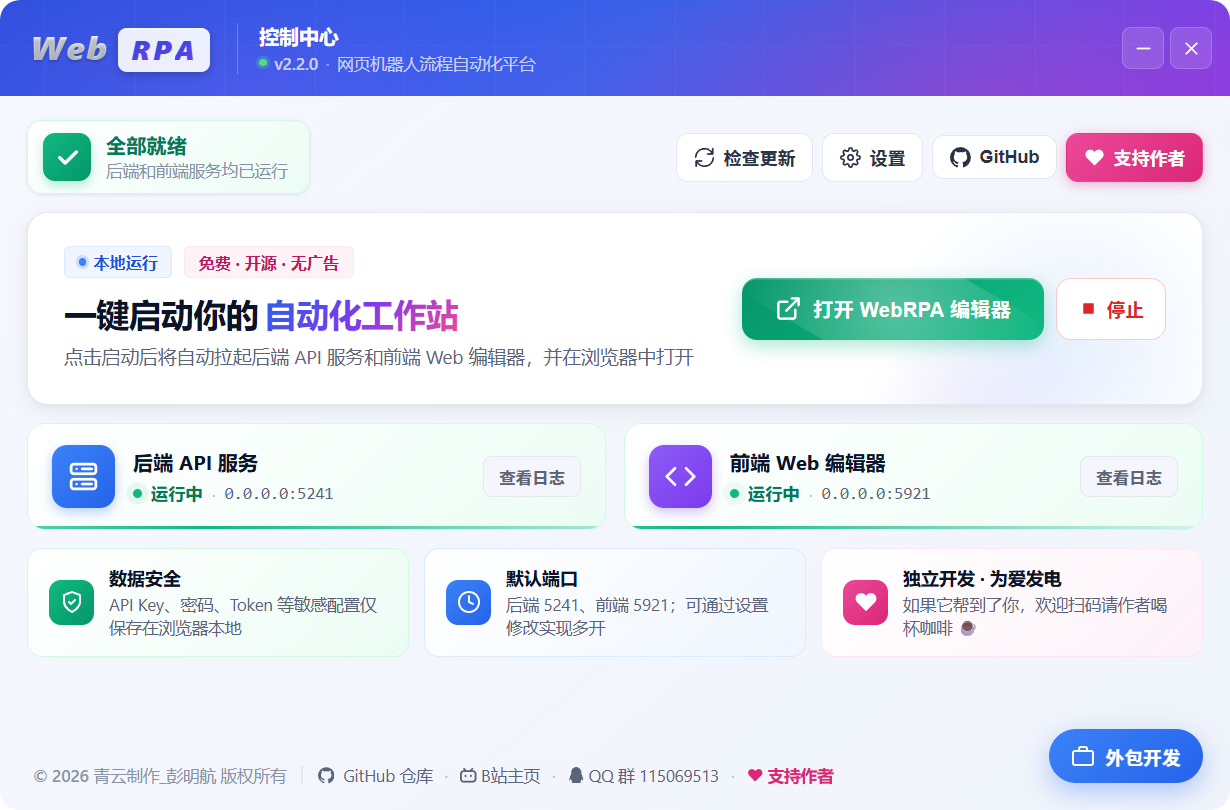
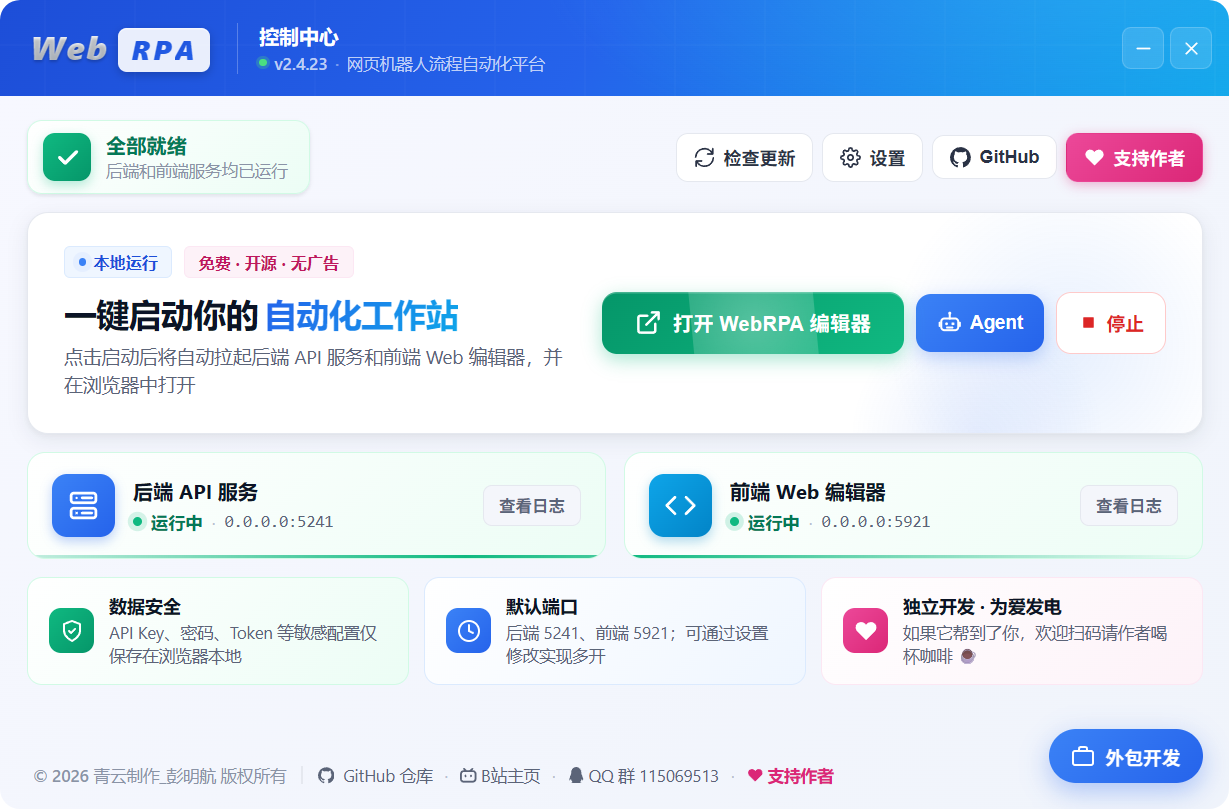
chore(release): 版本号升级至 2.4.23（全量同步+启动器exe重编译）;清理运行产生的数据文件;更新展示图

diff --git a/frameworkHub/src/index.js b/frameworkHub/src/index.js
@@ -101,8 +101,8 @@ app.get('/health', (req, res) => {
 // 获取最新版本号
 app.get('/api/version', (req, res) => {
   res.json({
-    version: '2.4.14',
-    releaseDate: '2026-07-12',
+    version: '2.4.23',
+    releaseDate: '2026-07-15',
     downloadUrl: 'https://github.com/pmh1314520/WebRPA/releases',
     changelog: '2.0.0 大版本：全面强化 AI 能力——新增 AI 小助手（对话式搭建/排查工作流，支持运行失败自动诊断与自愈重跑）、AI 数据处理模块（信息抽取/分类/摘要/翻译/情感/数据规整/语义去重/智能路由）、完整 Excel 自动化模块（基于 openpyxl + COM）；数据表格全量虚拟滚动、日志实时推送等大量体验优化。详见 GitHub Releases。'
   })

diff --git a/frontend/src/services/version.ts b/frontend/src/services/version.ts
@@ -1,5 +1,5 @@
 // 当前编辑器版本号
-export const CURRENT_VERSION = '2.4.14'
+export const CURRENT_VERSION = '2.4.23'
 
 // 默认工作流仓库地址
 const HUB_URL = 'https://hub.pmhs.top'

diff --git a/README.md b/README.md
@@ -5,7 +5,7 @@
 WebRPA - 网页机器人流程自动化工具
 </h1>
 <p align="center">
-  <img src="https://img.shields.io/badge/版本-2.4.14-blue.svg" alt="版本">
+  <img src="https://img.shields.io/badge/版本-2.4.23-blue.svg" alt="版本">
   <img src="https://img.shields.io/badge/模块数量-558个-brightgreen.svg" alt="模块数量">
   <img src="https://img.shields.io/badge/协议-AGPL--3.0%20%2B%20商业授权-green.svg" alt="协议">
   <img src="https://img.shields.io/badge/作者-青云制作__彭明航-orange.svg" alt="作者">
@@ -650,6 +650,9 @@ WebRPA/
 |  80  |          *人           | 2026-07-11 01:36:55 |   6.66   |
 |  81  |          J*a           | 2026-07-11 09:19:06 |  10.00   |
 |  82  |        ☆王小鉴☆        | 2026-07-11 09:53:09 |  50.00   |
+|  83  |          *月           | 2026-07-13 15:29:05 |   6.66   |
+|  84  |          段*C          | 2026-07-13 15:35:40 |  10.00   |
+|  85  |          *的           | 2026-07-15 11:58:46 |   1.00   |
 
 ---
 
